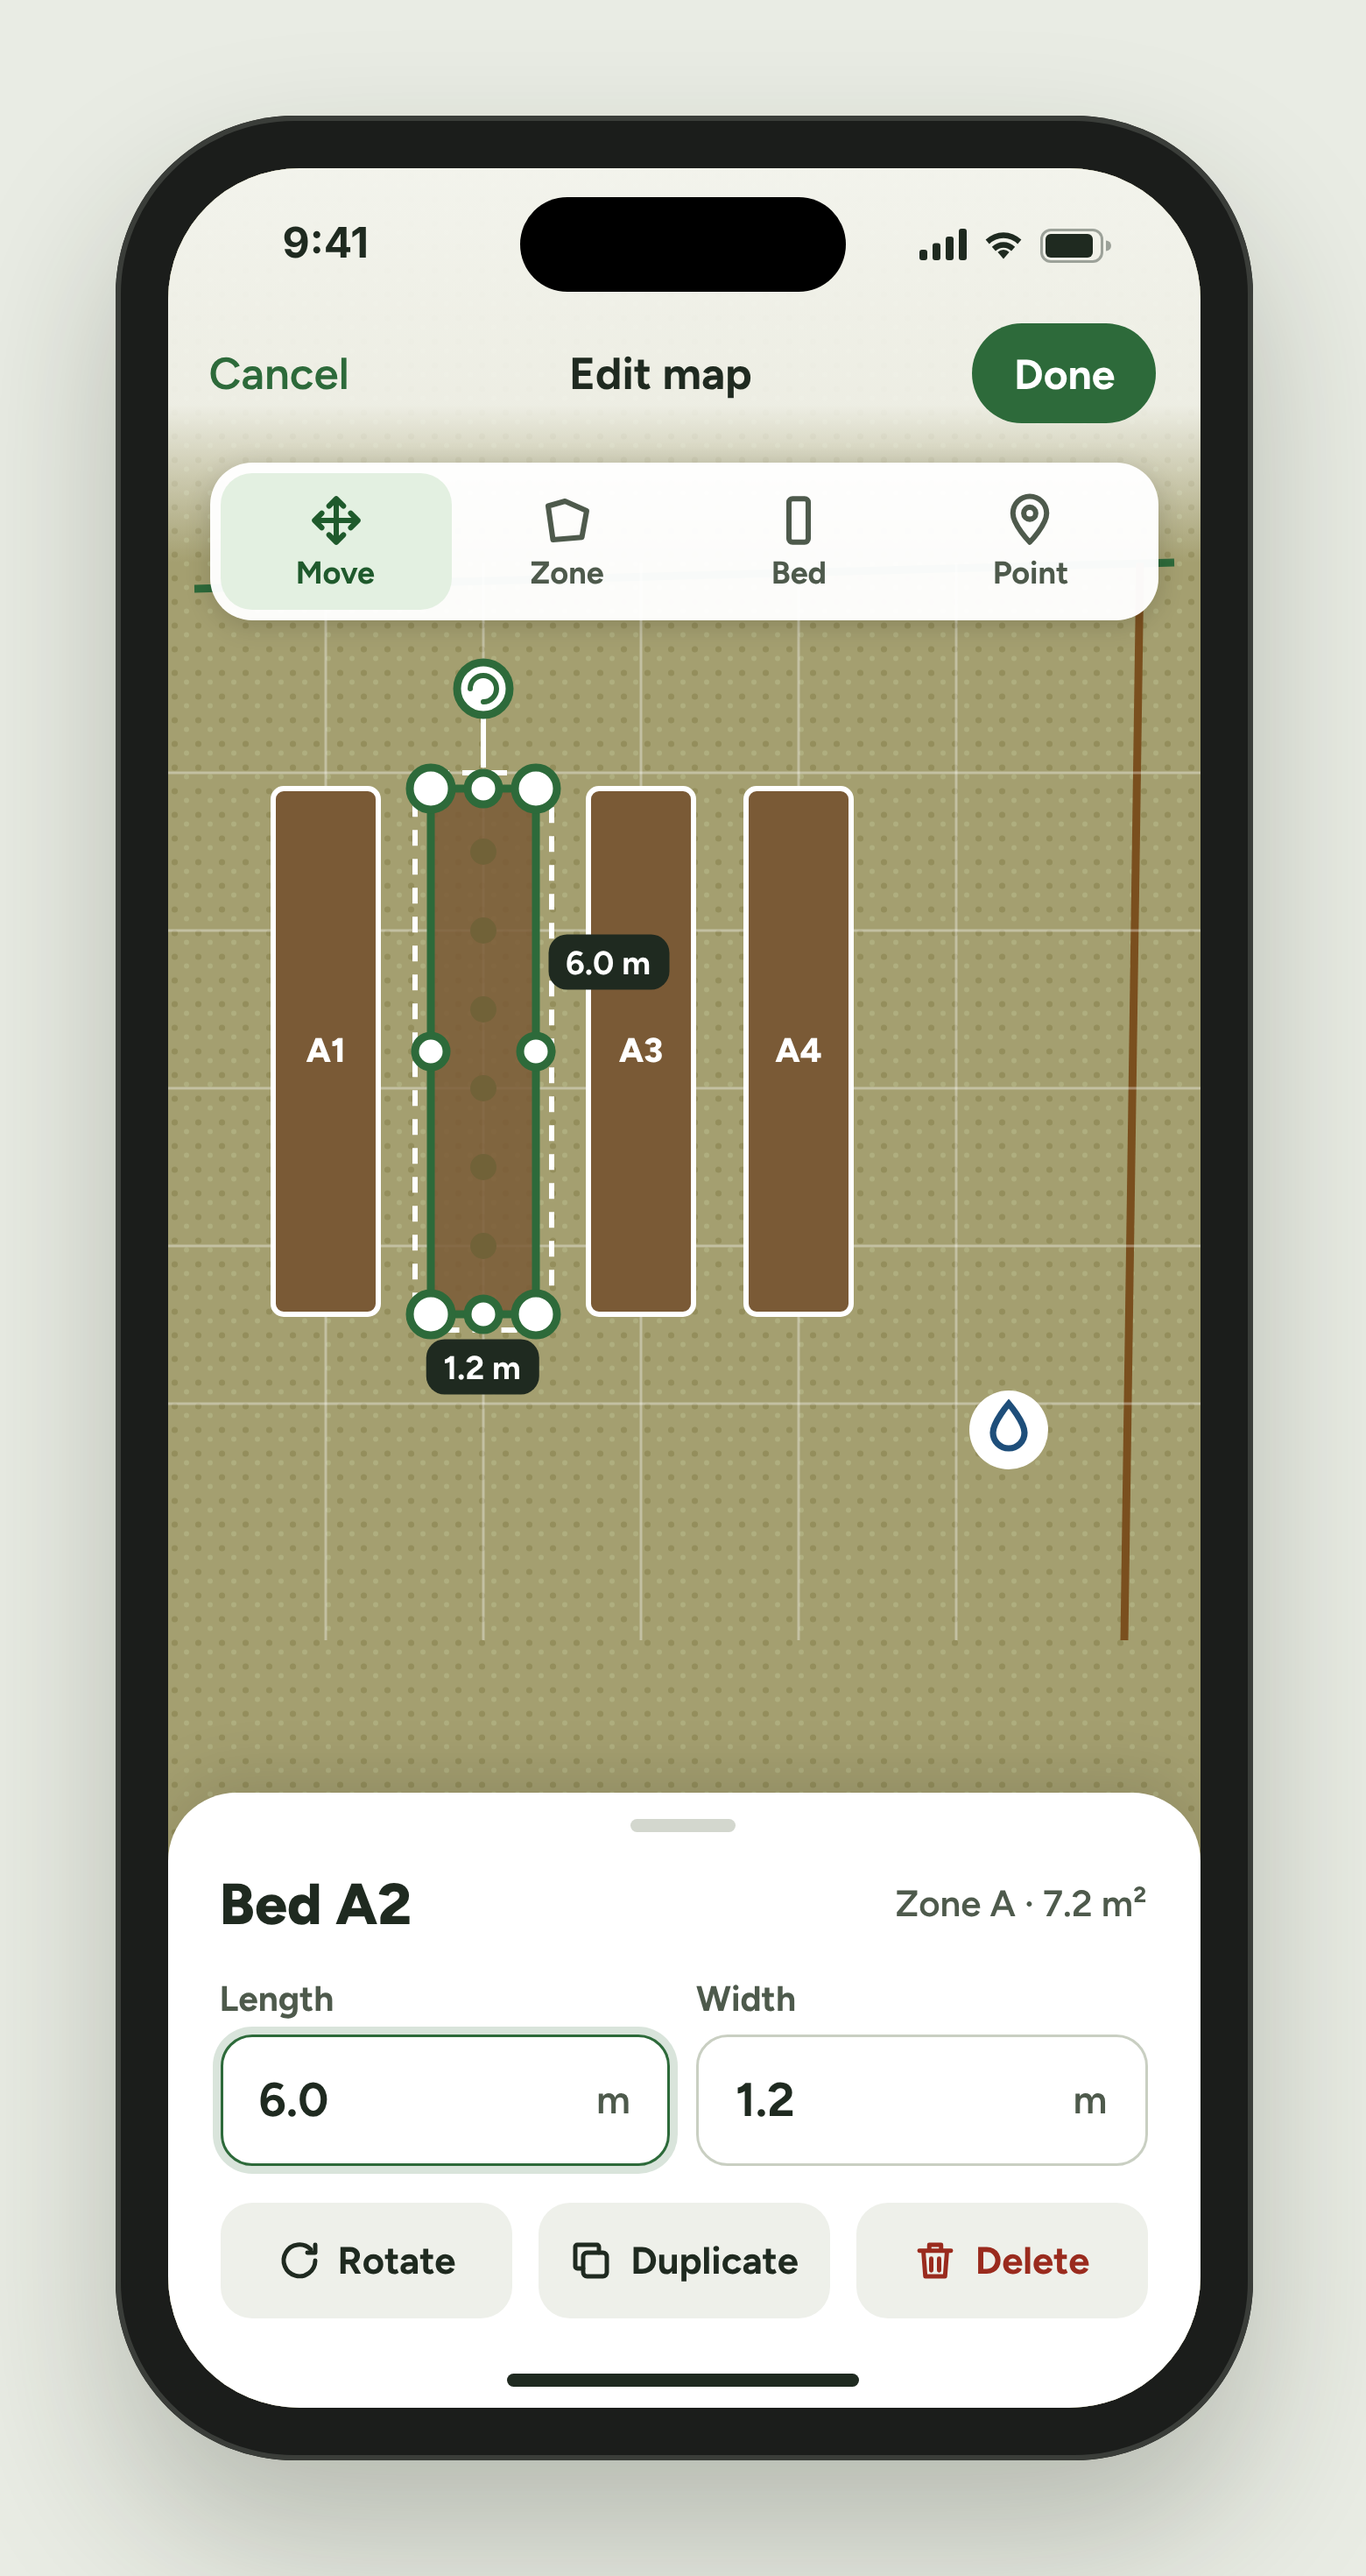
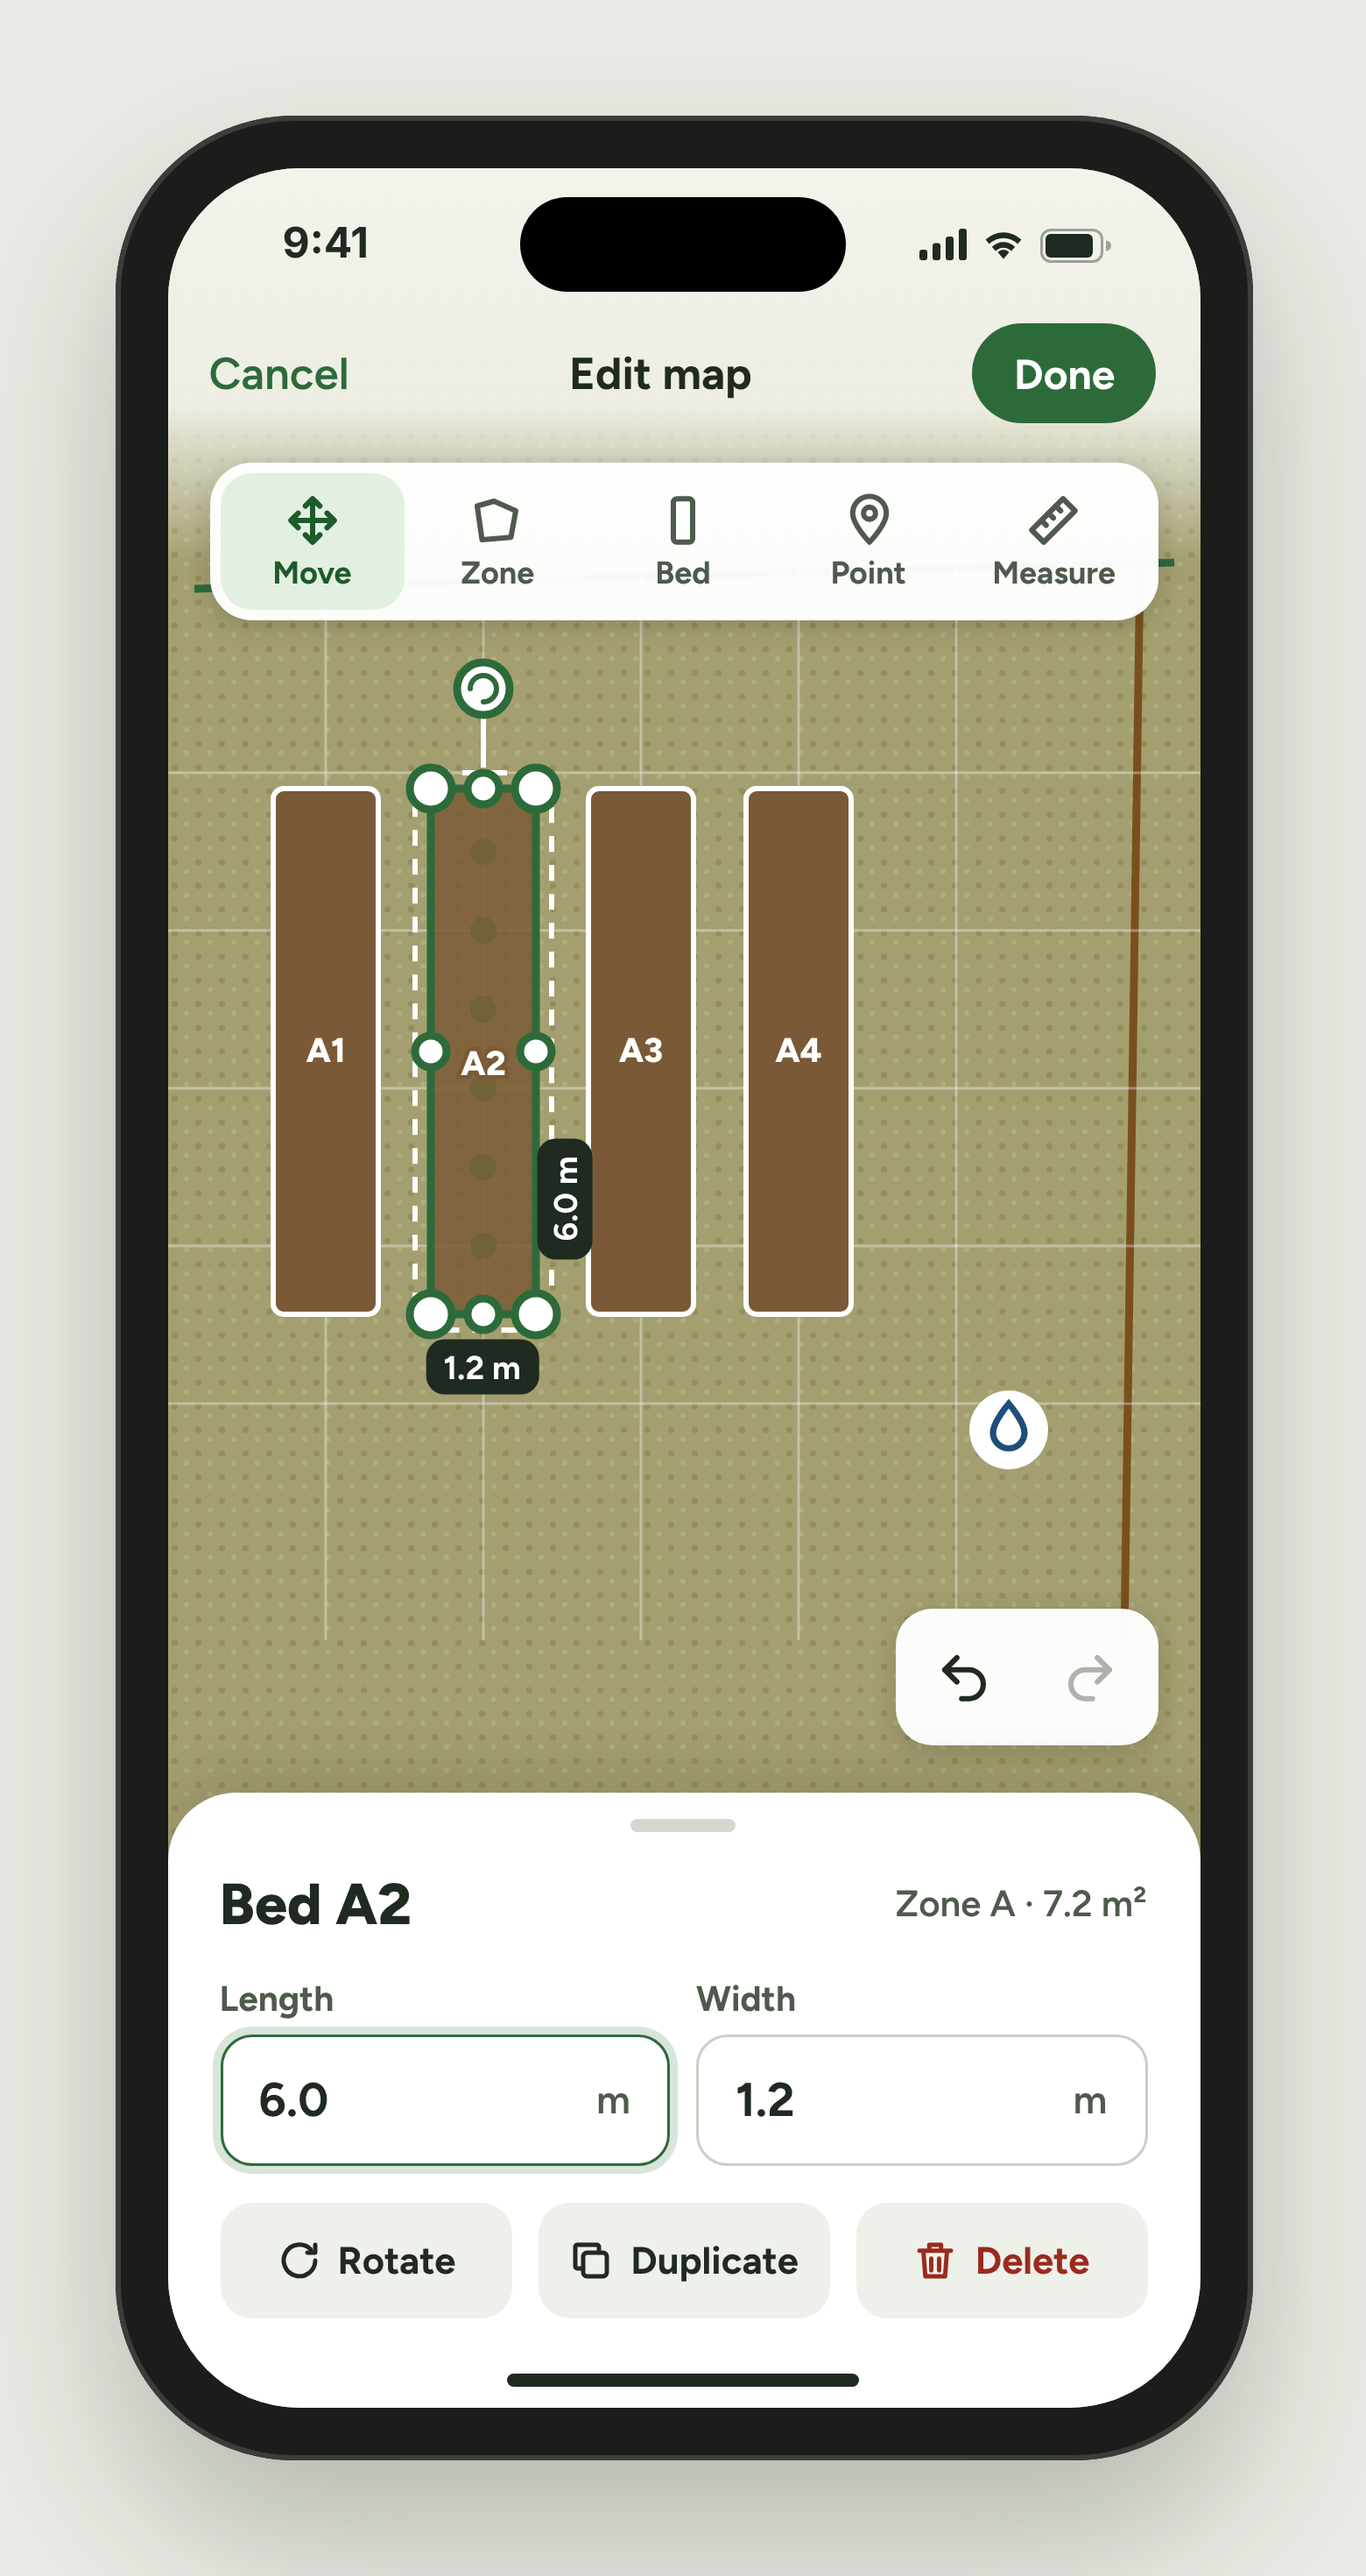
Design C4 edit map: Measure tool, undo/redo, clearer labels
Claude-Session: https://claude.ai/code/session_015NynAjU4naPZwzmeuGazot

diff --git a/design/source/C4-edit-map.html b/design/source/C4-edit-map.html
@@ -12,7 +12,7 @@
   .navbar .title { font-size: 17px; font-weight: 700; }
   .navbar .cancel { font-size: 17px; font-weight: 600; color: var(--green); min-height: 44px; display: flex; align-items: center; }
   .done { height: 38px; padding: 0 16px; border-radius: 999px; background: var(--green); color: #fff; font-size: 16px; font-weight: 700; display: flex; align-items: center; }
-  .toolbar { position: absolute; left: 16px; right: 16px; top: 112px; z-index: 20; background: rgba(255,255,255,.97); border-radius: 16px; box-shadow: 0 2px 10px rgba(0,0,0,.16); display: grid; grid-template-columns: repeat(4, minmax(0, 1fr)); padding: 4px; }
+  .toolbar { position: absolute; left: 16px; right: 16px; top: 112px; z-index: 20; background: rgba(255,255,255,.97); border-radius: 16px; box-shadow: 0 2px 10px rgba(0,0,0,.16); display: grid; grid-template-columns: repeat(5, minmax(0, 1fr)); padding: 4px; }
   .toolbar span { height: 52px; border-radius: 12px; display: flex; flex-direction: column; align-items: center; justify-content: center; gap: 2px; font-size: 12px; font-weight: 700; color: var(--muted); }
   .toolbar span.on { background: var(--green-soft); color: var(--green-ink); }
   .dim { position: absolute; z-index: 12; background: var(--text); color: #fff; font-size: 12.5px; font-weight: 700; padding: 3px 7px; border-radius: 7px; transform: translate(-50%, -50%); }
@@ -29,6 +29,8 @@
   .row2 { display: flex; gap: 10px; }
   .mini { flex: 1; height: 44px; border-radius: 12px; background: #EEF0EA; display: flex; align-items: center; justify-content: center; gap: 6px; font-size: 14.5px; font-weight: 700; }
   .mini.danger { color: #9A2B1E; }
+  .undo { position: absolute; right: 16px; bottom: 252px; z-index: 25; display: flex; background: rgba(255,255,255,.97); border-radius: 14px; box-shadow: 0 2px 10px rgba(0,0,0,.16); padding: 2px; }
+  .undo span { width: 48px; height: 48px; display: flex; align-items: center; justify-content: center; }
 </style>
 </head>
 <body>
@@ -63,6 +65,7 @@
       <circle cx="100" cy="236" r="8"/><circle cx="140" cy="236" r="8"/><circle cx="140" cy="436" r="8"/><circle cx="100" cy="436" r="8"/>
       <circle cx="120" cy="236" r="6"/><circle cx="140" cy="336" r="6"/><circle cx="120" cy="436" r="6"/><circle cx="100" cy="336" r="6"/>
     </g>
+    <text x="120" y="345" font-family="Figtree, sans-serif" font-size="13" font-weight="800" fill="#fff" text-anchor="middle" stroke="#7A5A36" stroke-width="3" paint-order="stroke">A2</text>
     <!-- rotate handle -->
     <path d="M120 228 V206" stroke="#fff" stroke-width="2"/>
     <circle cx="120" cy="198" r="10" fill="#fff" stroke="#2D6A3A" stroke-width="3"/>
@@ -76,7 +79,7 @@
   <div class="topfade"></div>
 
   <span class="dim" style="left: 120px; top: 456px">1.2 m</span>
-  <span class="dim" style="left: 168px; top: 302px">6.0 m</span>
+  <span class="dim" style="left: 151px; top: 392px; transform: translate(-50%, -50%) rotate(-90deg)">6.0 m</span>
 
   <div class="status">
     <span>9:41</span>
@@ -98,6 +101,11 @@
     <span><svg width="22" height="22" viewBox="0 0 24 24" fill="none" stroke="currentColor" stroke-width="2.2" stroke-linecap="round" stroke-linejoin="round"><path d="M4 6l7-2 9 4-2 11-12 1z"/></svg>Zone</span>
     <span><svg width="22" height="22" viewBox="0 0 24 24" fill="none" stroke="currentColor" stroke-width="2.2" stroke-linecap="round" stroke-linejoin="round"><rect x="8" y="3" width="8" height="18" rx="1.5"/></svg>Bed</span>
     <span><svg width="22" height="22" viewBox="0 0 24 24" fill="none" stroke="currentColor" stroke-width="2.2" stroke-linecap="round" stroke-linejoin="round"><path d="M12 21s-7-7.2-7-12a7 7 0 0 1 14 0c0 4.8-7 12-7 12z"/><circle cx="12" cy="9" r="2.5"/></svg>Point</span>
+    <span><svg width="22" height="22" viewBox="0 0 24 24" fill="none" stroke="currentColor" stroke-width="2.2" stroke-linecap="round" stroke-linejoin="round"><path d="M3 16L16 3l5 5L8 21z"/><path d="M7 12l2 2M10 9l2 2M13 6l2 2"/></svg>Measure</span>
+  </div>
+  <div class="undo" aria-label="Undo and redo">
+    <span aria-label="Undo"><svg width="22" height="22" viewBox="0 0 24 24" fill="none" stroke="#1F2A20" stroke-width="2.2" stroke-linecap="round" stroke-linejoin="round"><path d="M9 14L4 9l5-5"/><path d="M4 9h10a6 6 0 0 1 0 12h-3"/></svg></span>
+    <span aria-label="Redo" style="opacity: .35"><svg width="22" height="22" viewBox="0 0 24 24" fill="none" stroke="#1F2A20" stroke-width="2.2" stroke-linecap="round" stroke-linejoin="round"><path d="M15 14l5-5-5-5"/><path d="M20 9H10a6 6 0 0 0 0 12h3"/></svg></span>
   </div>
 
   <div class="sheet">
